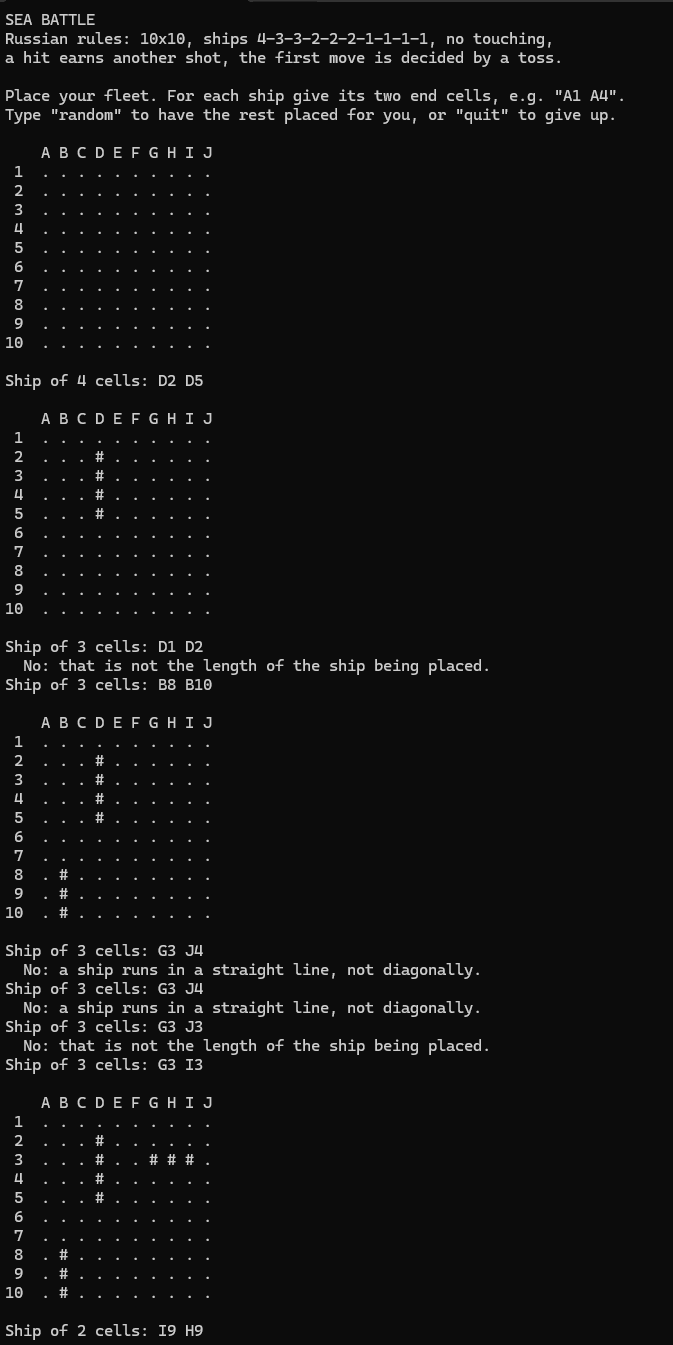
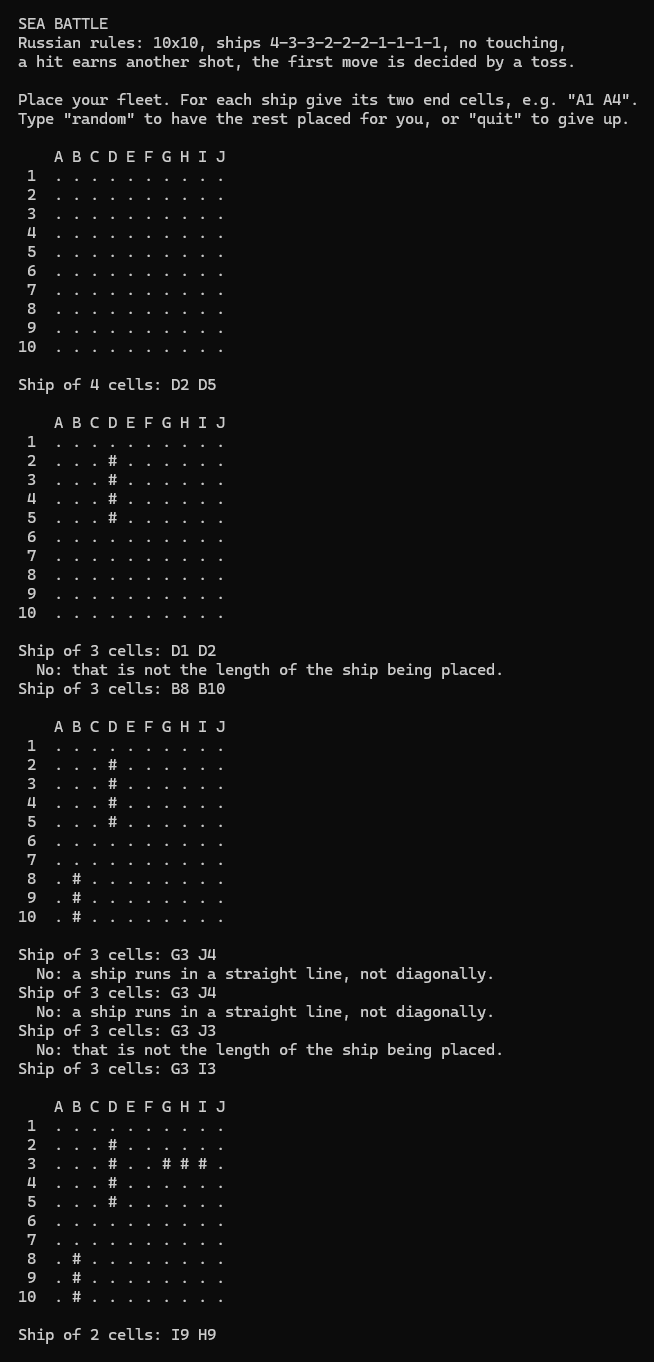
README: object-oriented design section; fix screenshots; remove stray copy

Changed region(s): [[0.0, 0.1249, 0.7645, 0.9993], [0.0, 0.0, 0.948, 0.1249]]

diff --git a/README.md b/README.md
@@ -9,7 +9,7 @@ possible to play tens of thousands of games and measure how good a strategy is.
 The console is one client of that library, and it plugs into it through the
 same interfaces anybody else would use.
 
-![A game in progress](docs/images/midgame.png)
+![A hit, then the sinking: the ship turns to * and the water around it is crossed out](docs/images/midgame.png)
 
 ---
 
@@ -45,6 +45,10 @@ The two boards are drawn side by side after every shot:
 
 A cell you have already resolved is refused before the shot is sent, so a
 mistyped repeat never costs a turn.
+
+The game ends when one fleet is gone:
+
+![The end of a game](docs/images/victory.png)
 
 ---
 
@@ -267,6 +271,54 @@ above.
 * **The compiler as a reviewer.** Strict warnings on three compilers,
   AddressSanitizer and UndefinedBehaviorSanitizer, and deleted operations where
   a misuse should fail to compile rather than fail at run time.
+
+---
+
+## Object-oriented design
+
+Object orientation is used where the design needs substitution at run time,
+and deliberately not used where it does not.
+
+### The four principles
+
+* **Encapsulation.** State is private and changed through one door. A `Ship`'s
+  length and damage have no setters; a cell and its ship change together only
+  inside `OwnBoard::receive_shot`; the knowledge map changes only through
+  `EnemyMap::record`. Each class states its invariants (`@invariant`) and keeps
+  them itself instead of trusting its callers to.
+* **Abstraction.** Four interfaces - `IPlacementStrategy`, `ITargetingStrategy`,
+  `IShootable`, `IGameObserver` - tell a caller *what* happens and hide *how*.
+* **Inheritance - of interfaces only.** `Player` implements `IShootable`, the
+  strategies implement theirs, `ConsoleView` implements `IGameObserver`. There
+  is no inheritance of implementation anywhere. `Grid2D` in particular is held,
+  not inherited from: public inheritance would expose `at()` and `fill()` past
+  the boards' invariants, and `Grid2D` has no virtual destructor.
+* **Polymorphism - three kinds, each where it fits.** Run-time polymorphism
+  through the four interfaces; parametric polymorphism through `Grid2D<T>`,
+  used with three unrelated cell types; and a closed set of alternatives
+  through `std::variant` for a cell of one's own board.
+
+### SOLID
+
+| | principle | in this code |
+|---|---|---|
+| **S** | single responsibility | `OwnBoard` - one's own fleet; `EnemyMap` - knowledge of the other; `Session` - the flow of the game; `ConsoleView` - drawing; `coord_format` - turning "B5" into a coordinate |
+| **O** | open for extension, closed for modification | a new strategy or a new front end is added without touching `Player` or `Session` |
+| **L** | Liskov substitution | any `ITargetingStrategy` can replace another because its contract is written down - "returns a cell that is still unknown"; a scripted test double replaces a whole `Player` behind `IShootable` |
+| **I** | interface segregation | `IShootable` has one method; the one optional observer event has an empty default body |
+| **D** | dependency inversion | `Player` depends on four abstractions and is handed their implementations from outside |
+
+### Where object orientation is deliberately not used
+
+* **A cell is a `std::variant`, not a base class with subclasses.** The set of
+  alternatives is closed and known in advance, a board has a hundred cells, and
+  none of them needs a heap allocation or a virtual call. A hierarchy is the
+  right tool when the set is open; here it is not.
+* **`Coords`, `Placement` and `Rect` are plain aggregates.** They are data, not
+  objects with behaviour, and wrapping them in accessors would add nothing.
+* **The placement algorithm's helpers are free functions.** They need no state,
+  so they are not methods of anything - which also makes each one testable on
+  its own.
 
 ---
 
